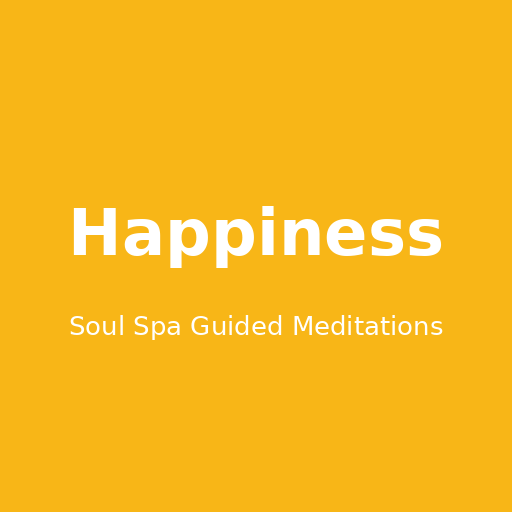
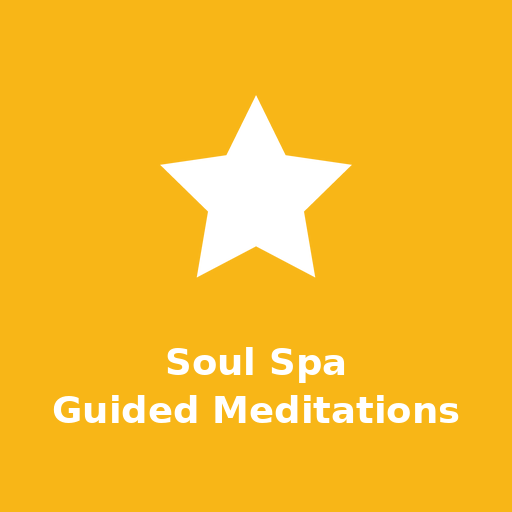
Add files via upload

Changed region(s): [[0.125, 0.1875, 0.875, 0.5625], [0.0938, 0.5938, 0.9062, 0.8438]]

diff --git a/app.js b/app.js
@@ -7,13 +7,13 @@ const tracks = [
     // Power: red, solid sun with 12 rays
     { id: 'power', title: 'Power', file: 'power.mp3', color: '#BA2025', fg: '#fff', transcript: '', icon: svgWrapper('<circle cx="12" cy="12" r="5" fill="currentColor" stroke="none"></circle><path d="M12.00 4.00L12.00 1.40M16.00 5.07L17.30 2.82M18.93 8.00L21.18 6.70M20.00 12.00L22.60 12.00M18.93 16.00L21.18 17.30M16.00 18.93L17.30 21.18M12.00 20.00L12.00 22.60M8.00 18.93L6.70 21.18M5.07 16.00L2.82 17.30M4.00 12.00L1.40 12.00M5.07 8.00L2.82 6.70M8.00 5.07L6.70 2.82" stroke-width="2"></path>') },
     // Purity: orange, solid drop with crescent highlight
-    { id: 'purity', title: 'Purity', file: 'purity.mp3', color: '#E06221', fg: '#fff', transcript: '', icon: svgWrapper('<path d="M12 2.69l5.66 5.66a8 8 0 1 1-11.31 0z" fill="currentColor" stroke="none"></path><path d="M8 13.2A5.2 5.2 0 0 0 11.8 18.6 4 4 0 0 1 8 13.2z" fill="#E06221" stroke="none"></path>') },
+    { id: 'purity', title: 'Purity', file: 'purity.mp3', color: '#E06221', fg: '#fff', transcript: '', icon: svgWrapper('<path d="M12 2.69l5.66 5.66a8 8 0 1 1-11.31 0z" fill="currentColor" stroke="none"></path><path d="M7.6 12.6A5.6 5.6 0 0 0 12 19.3 9 9 0 0 1 7.6 12.6z" fill="#E06221" stroke="none"></path>') },
     // Happiness: yellow, solid star
     { id: 'happiness', title: 'Happiness', file: 'happiness.mp3', color: '#F8B617', fg: '#fff', transcript: '', icon: svgWrapper('<polygon points="12 2 15.09 8.26 22 9.27 17 14.14 18.18 21.02 12 17.77 5.82 21.02 7 14.14 2 9.27 8.91 8.26 12 2" fill="currentColor" stroke="none"></polygon>') },
     // Love: green, heart outline
     { id: 'love', title: 'Love', file: 'love.mp3', color: '#006E3A', fg: '#fff', transcript: '', icon: svgWrapper('<path d="M20.84 4.61a5.5 5.5 0 0 0-7.78 0L12 5.67l-1.06-1.06a5.5 5.5 0 0 0-7.78 7.78l1.06 1.06L12 21.23l7.78-7.78 1.06-1.06a5.5 5.5 0 0 0 0-7.78z" stroke-width="3"></path>') },
     // Peace: blue, three waves
-    { id: 'peace', title: 'Peace', file: 'peace.mp3', color: '#0075BE', fg: '#fff', transcript: '', icon: svgWrapper('<path d="M3 7q2-2 4 0t4 0 4 0 4 0M3 12q2-2 4 0t4 0 4 0 4 0M3 17q2-2 4 0t4 0 4 0 4 0"></path>') },
+    { id: 'peace', title: 'Peace', file: 'peace.mp3', color: '#0075BE', fg: '#fff', transcript: '', icon: svgWrapper('<path d="M3 6.5q2-1.8 4 0t4 0 4 0 4 0M3 12q2-1.8 4 0t4 0 4 0 4 0M3 17.5q2-1.8 4 0t4 0 4 0 4 0" stroke-width="2"></path>') },
     // Knowledge: indigo, light bulb with rays
     { id: 'knowledge', title: 'Knowledge', file: 'knowledge.mp3', color: '#27387A', fg: '#fff', transcript: '', icon: svgWrapper('<path d="M9.2 17.5C9.2 15 6.8 14 6.8 10.5a5.2 5.2 0 0 1 10.4 0c0 3.5-2.4 4.5-2.4 7zM9.5 21h5M12 1v1.8M3.6 4.6l1.3 1.3M20.4 4.6l-1.3 1.3M1.5 10.5h1.8M20.7 10.5h1.8" stroke-width="2"></path>') },
     // Bliss: purple, lotus
